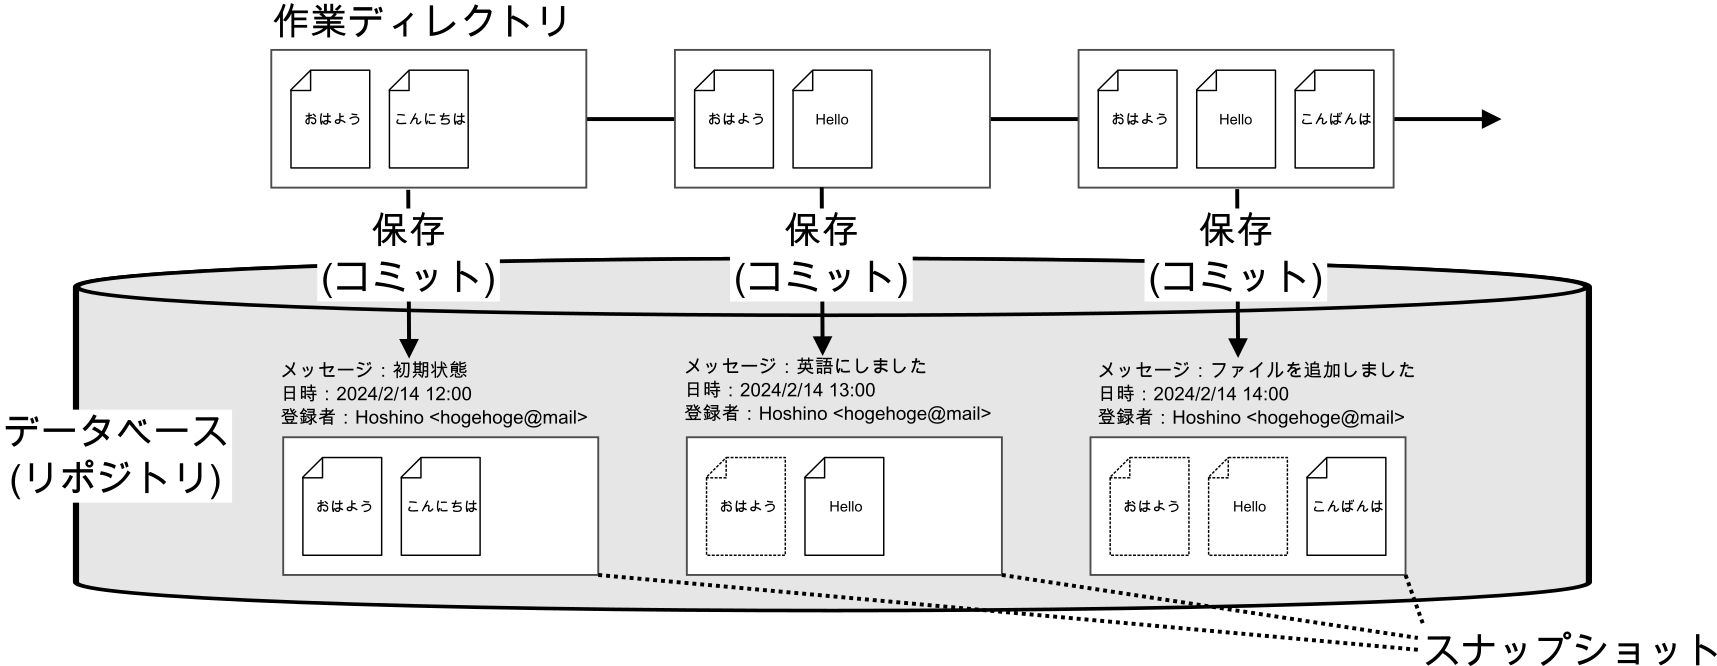
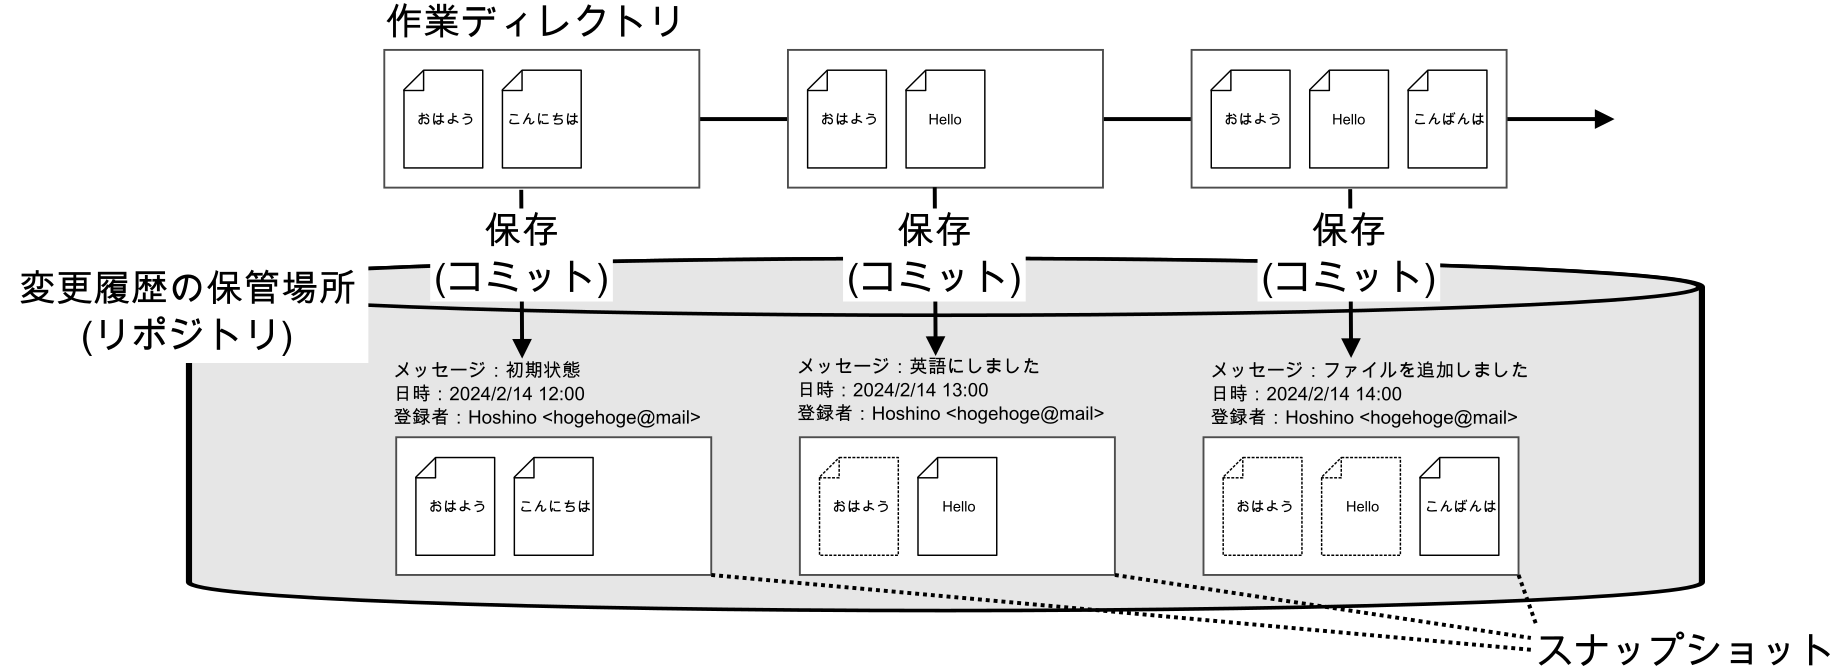
データベースという表現をやめた

diff --git a/source/01/02.rst b/source/01/02.rst
@@ -2,9 +2,9 @@
 Gitを使ったファイル管理の流れ
 #####################################################################
 
-Gitを使用したファイル管理のやり方は、やりたいことや人により色々あると思いますが、基本的に共通していることはGitで管理しているプロジェクトの作業ディレクトリでのファイルの追加・削除・更新の履歴をデータベースに蓄積していくことです。
+Gitを使用したファイル管理のやり方は、やりたいことや人により色々あると思いますが、基本的に共通していることはGitで管理しているプロジェクトの作業ディレクトリでのファイルの追加・削除・更新の履歴を蓄積していくことです。
 
-ここで、バージョン管理対象のファイル、ディレクトリの保存時の状態(Gitではスナップショットという)や更新履歴などの一群を保存するデータベースを **リポジトリ** (repository)、データベースに変更を記録・保存することを **コミット** (commit)といいます。
+ここで、バージョン管理対象のファイル、ディレクトリの保存時の状態(Gitではスナップショットという)や更新履歴などの一群を保存する場所を **リポジトリ** (repository)、リポジトリに変更を記録・保存することを **コミット** (commit)といいます。
 
 .. figure:: image/02/010.png
     :width: 100%

diff --git a/source/03/02.rst b/source/03/02.rst
@@ -4,7 +4,7 @@ Git
 
 バージョン管理システムです。
 
-| リポジトリ(repository)と呼ばれるデータベースを作成し、その中でソースコード等のファイルのバージョンを管理します。
+| リポジトリ(repository)と呼ばれる変更履歴を蓄積していく場所を作成し、その中でソースコード等のファイルのバージョンを管理します。
 | 作業内容はコミット（commit）と呼ばれる変更履歴として保持されるため、ファイルの管理が容易になります。
 
 コミットにはどのような変更を加えたかのコメントを残すことが可能で、Gitの機能を使う事でゲームのセーブデータのように好きな時点まで戻ったり、複数の変更を同時に行いたい場合は履歴を枝分かれさせたり合流させることもできます。

diff --git a/source/02/01.rst b/source/02/01.rst
@@ -7,7 +7,7 @@
 *********************************************************************
 
 リポジトリはGitのバージョン管理の対象になるファイル、ディレクトリ、更新履歴などの一群が保存される場所です。
-変更履歴とバックアップのデータベースのことだと思っていれば特に問題ありません。
+変更履歴とバックアップの保管場所のことだと思っていれば特に問題ありません。
 
 実態はGitで管理しているディレクトリに作成される :file:`.git` という隠しフォルダです。
 
